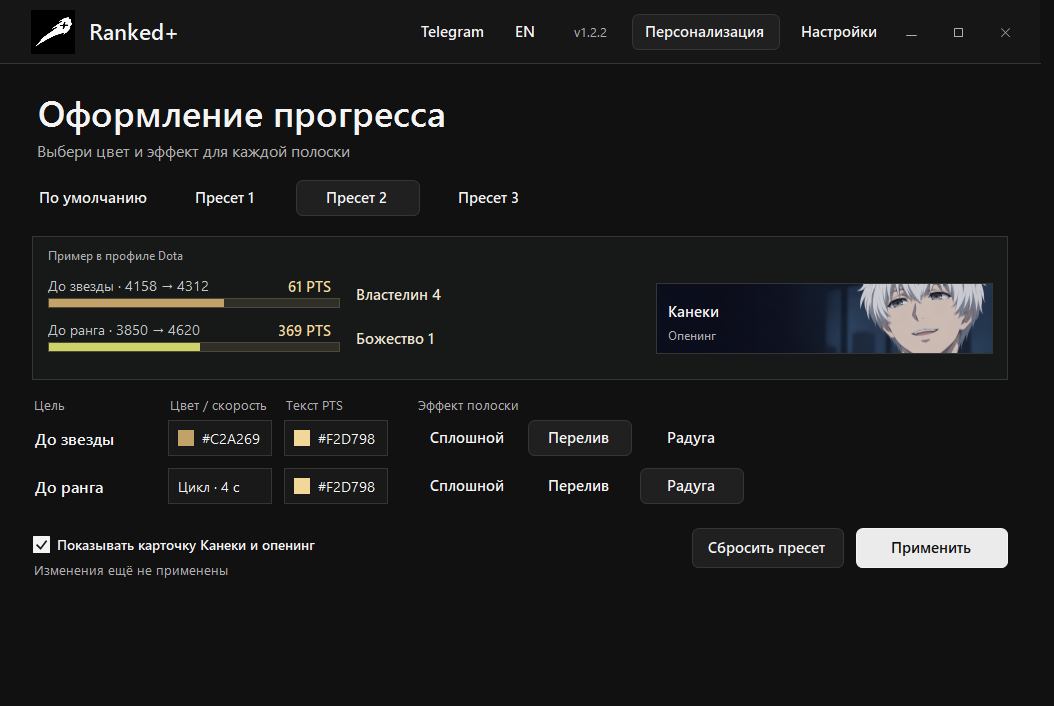
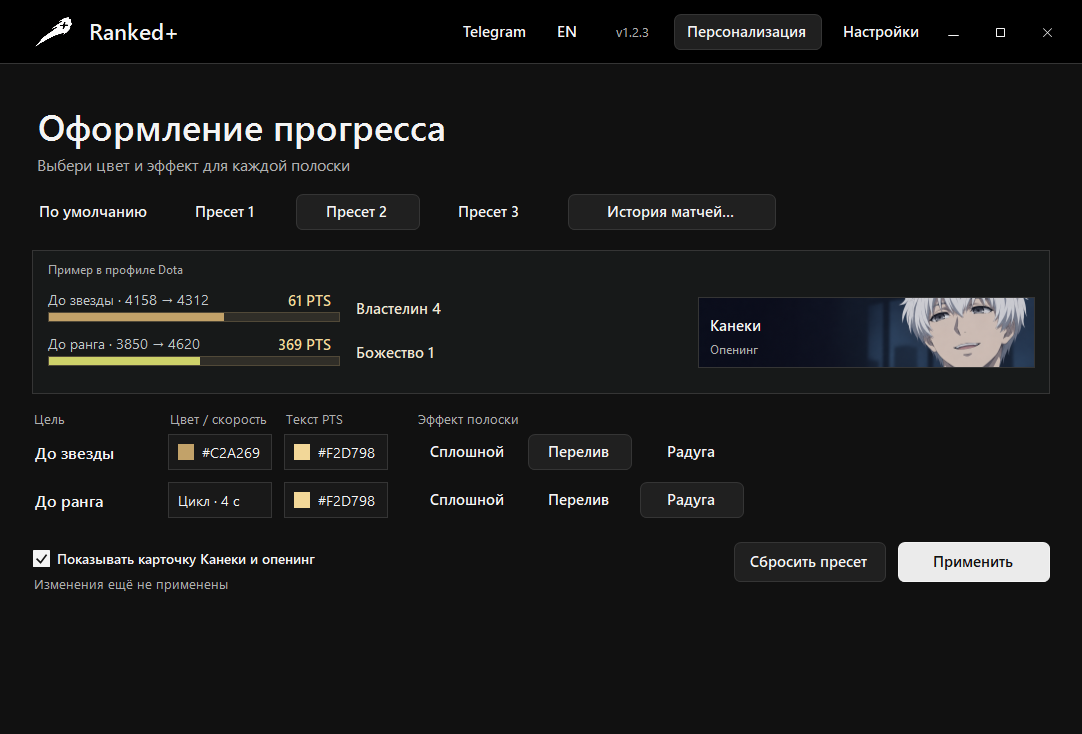
Show the updated black launcher chrome

diff --git a/README.md b/README.md
@@ -37,6 +37,8 @@ Ranked+ полностью бесплатный.
 
 В **«Персонализация → История матчей»** можно отдельно включить «Победа / Поражение» и итоговый рейтинг этого матча в скобках, например **Победа +26 PTS (4279 MMR)**. Для плюса и минуса можно выбрать свои цвета. Нажми **«Готово»**, затем **«Применить»** и перезапусти Dota.
 
+![Настройки результата в истории матчей Ranked+](docs/images/history-appearance.png)
+
 Открой **Персонализация**, выбери один из трёх пресетов и настрой полоски до звезды и до ранга. Для каждой можно выбрать цвет заполнения, цвет текста PTS и эффект. Изменения сразу видны на примере профиля. Нажми **Применить**, чтобы сохранить пресет и использовать его при следующем запуске Dota. **По умолчанию** возвращает стандартное оформление, а **Сбросить пресет** возвращает исходные цвета выбранного слота.
 
 ![Персонализация полосок Ranked+](docs/images/personalization.png)
